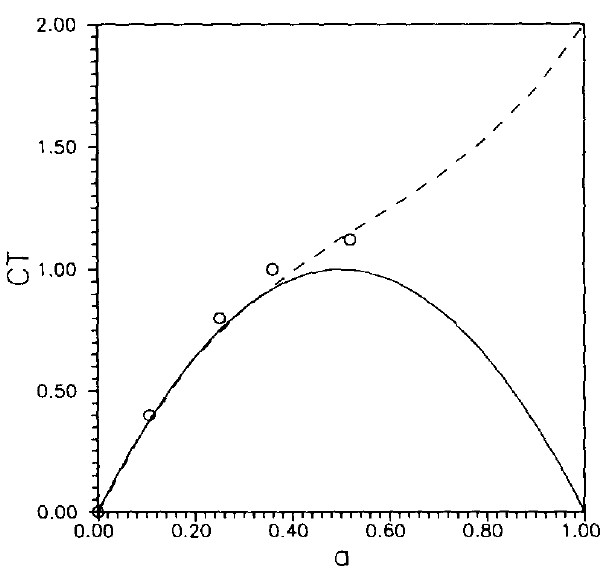
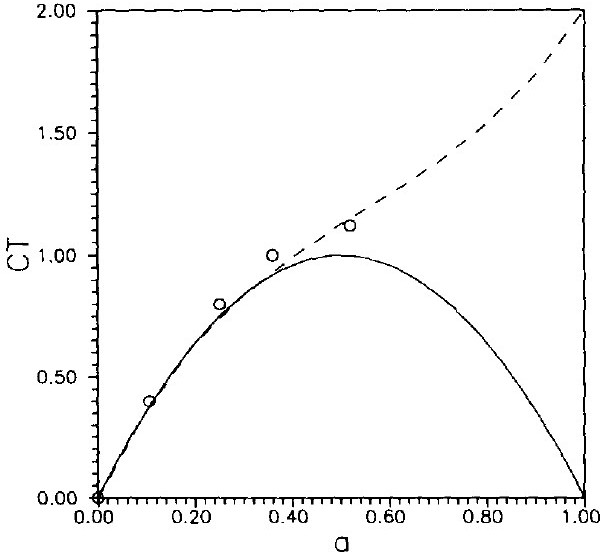
Seguimos con AL

diff --git a/3.wtActuatorFoam.tex b/3.wtActuatorFoam.tex
@@ -12,12 +12,26 @@ El concepto de Actuador Discal (AD) fue introducido por Froude~\cite{froude1889}
 
 El primer registro de un AD utilizado en un contexto de Dinámica de Fluidos Computacional (CFD, por su sigla en inglés) es el trabajo de Sørensen y Myken~\cite{sorensen1992}. En este caso se presentó un código de diferencias finitas para resolver las ecuaciones de Euler considerando axisimetría, empleando una distribución de fuerzas elíptica preestablecida en lugar de una uniforme, ya que esta última generaba, en el borde del disco, una fuente de vórtice singular a raíz de la discontinuidad de la carga, produciendo inestabilidades numéricas. Luego, en~\cite{sorensen1995}, se publica una versión modificada en la cual se reemplazan las ecuaciones de Euler por las de Navier-Stokes, incorporando un modelo de turbulencia de longitud de mezcla, aunque manteniendo la hipótesis de axisimetría. Como primera validación, el modelo se compara contra la teoría unidimensional de momento considerando un caso con carga uniforme, dando lugar a una primera versión del \texttt{AD uniform}, un actuador ya existía desde tiempos previos pero que en este contexto se utiliza por primera vez junto con CFD. La validación se muestra en la Figura \ref{fig:cap3-ctsorensen1995}, donde se oberva coincidencia para valores de inducción $a\leq\frac{1}{3}$. A continuación, se incorporan datos de perfiles alares para el cálculo de las fuerzas sobre el rotor, dando lugar al \texttt{AD airfoil}. Por otra parte, en~\cite{sorensen1998} se presenta un modelo de \textit{campo completo} (\textit{full-field}), formulado de manera tridimensional en variables vorticidad-velocidad sobre un dominio $(r,\theta,z)$, aunque los cálculos presentados en el trabajo se restringen a la hipótesis de axisimetría, y utilizando nuevamente el \texttt{AD uniform}. En esta misma época también se destacan los trabajos de Masson y otros autores~\cite{masson1997,masson2001,ammara2002}, que consideran flujo laminar y turbulento con modelos RANS, aplicando la técnica de AD \texttt{airfoil} con agregados como el efecto de la torre y el análisis de interferencia entre turbinas dispuestas en dos filas alternadas. A partir de este punto, impulsado por el desarrollo del poder de cómputo, se comienza a dejar atrás la hipótesis de axisimetría, dando paso a códigos completamente tridimensionales. 
 
+
 \begin{figure}[htpb]
     \centering
-        \includegraphics[width=0.6\textwidth]{images/wtActuatorFoam/Ct-Sorensen-1995.jpg}
-        \caption{Validación del \texttt{AD uniform} contra la teoría unidmensional de momento \citep{sorensen1995}}
+    \begin{subfigure}[b]{0.38\textwidth}
+        \centering
+        \includegraphics[height=4.5cm]{images/wtActuatorFoam/Ct-Sorensen-1995.jpg}
+        \caption{}
         \label{fig:cap3-ctsorensen1995}
+    \end{subfigure}
+    \hfill
+    \begin{subfigure}[b]{0.6\textwidth}
+        \centering
+        \includegraphics[height=4.5cm]{images/wtActuatorFoam/streamlines-Sorensen-1995}
+        \caption{}
+        \label{fig:cap3-IsoLinessorensen1995}
+    \end{subfigure}
+    \caption{Verificación del \texttt{AD uniform} contra la teoría unidmensional de momento (izquierda) y líneas de corriente aguas abajo, presentados en \cite{sorensen1995}}
+    \label{fig:cap3-sorensen1995}
 \end{figure}
+
 
 Entre los siguientes grandes hitos en la modelación de turbinas por medio de AD se puede destacar la tesis de Mikkelsen~\cite{mikkelsenThesis2003}, en la que se reformulan tanto el Actuador Discal como el Actuador Lineal en variables primitivas (presión-velocidad), resueltas mediante un solver de volúmenes finitos con interpolación de Rhie-Chow, formulación que sería adoptada en gran parte de los trabajos posteriores. Este trabajo además compara funciones de suavizado gaussianas 1D y 3D para el AD, mostrando el problema que surge al distribuir la carga más allá del borde del disco.
 
@@ -25,8 +39,41 @@ Hacia el final de la década el foco se pone en la interacción del AD con la tu
 
 Uno de los principales problemas del AD \texttt{airfoil} es la necesidad de contar con los datos de los perfiles alares que componen las aspas, los cuales casi nunca son otorgados por los fabricantes de turbinas. En 2015 van der Laan et al.~\cite{vanderlaan2015} desarrollaron un modelo que se basa en un proceso de calibración a partir del AD \texttt{airfoil}, para luego recurrir a una tabla con valores de fuerzas y velocidad de referencia en función de la velocidad promedio incidente sobre el disco. Este modelo se denomina AD \texttt{numeric} y permite estimar la distribución de fuerzas en una turbina desconocida partiendo de una conocida, como la NREL 5MW. Por otra parte, en 2019 Navarro Diaz et al.~\cite{navarrodiaz2019} propusieron un nuevo actuador también con un proceso previo de calibración, dando lugar al AD \texttt{adaptive}. El proceso de calibración se realiza con el AD \texttt{uniform} en lugar del \texttt{airfoil}, y presenta una gran capacidad de adaptarse frente a flujo no uniforme sobre el disco. En 2020 Sørensen et al.~\cite{sorensen2020} propusieron un actuador capaz de responder a flujo no uniforme sin necesidad de un proceso de calibración ni de información de los perfiles alares 2D de las aspas, mediante el cálculo analítico de la velocidad de referencia y de las fuerzas a aplicar sobre el fluido, denominado AD \texttt{analytic}. Un avance reciente dentro de estos actuadores es el trabajo de Navarro Diaz et al.~\cite{navarrodiaz2023}, en el cual se realiza una comparación profunda entre las variantes \texttt{airfoil}, \texttt{adaptive} y \texttt{analytic}, además de desarrollar los últimos 2 en versión de Actuador Lineal. Por último, en 2023 Sørensen~\cite{sorensen2023} generalizó el modelo \texttt{analytic} para velocidades por encima de la velocidad nominal, donde la hipótesis fundamental del trabajo anterior no es válida, dando lugar al llamado AD \texttt{genalytic}.
 
+\subsection{Actuador Lineal}
+
+El concepto de Actuador Lineal (AL) fue introducido por primera vez en 2002 por Sørensen y Shen~\cite{sorensen2002}, donde se ubican las fuerzas aerodinámicas correspondientes a las aspas en 3 líneas rotantes a partir de datos de perfiles alares en cada posición de las aspas, siendo esta una variante \texttt{airfoil} de dicho actuador. Las fuerzas luego se distribuyen en el dominio del fluido mediante una función Gaussiana de suavizado para evitar inestabilidades numéricas y se resuelve un modelo de Navier-Stokes tridimensional, restringido un tercio del área de barrido. Poco después, Mikkelsen~\cite{mikkelsenThesis2003} implementa el AL en variables primitivas dentro del código EllipSys3D, y observa una fuerte sensibilidad de las velocidades y fuerzas sobre la pala respecto del ancho de suavizado elegido, en particular en las zonas de raíz y punta donde la carga cambia abruptamente. En esa misma tesis se compara el AL contra el AD bajo las mismas condiciones, obteniendo resultados muy similares entre ambos.
+
+
+\begin{figure}[htpb]
+    \centering
+    \begin{subfigure}[b]{0.48\textwidth}
+        \centering
+        \includegraphics[height=5.5cm]{images/wtActuatorFoam/ALvalidation-sorensen2002.jpg}
+        \caption{}
+        \label{fig:cap3-validationsorensen2002}
+    \end{subfigure}
+    \hfill
+    \begin{subfigure}[b]{0.48\textwidth}
+        \centering
+        \includegraphics[height=5.5cm]{images/wtActuatorFoam/ALvorticity-sorensen2002}
+        \caption{}
+        \label{fig:cap3-vorticitysorensen2002}
+    \end{subfigure}
+    \caption{Validación del \texttt{AL airfoil} contra la teoría mediciones experimentales (izquierda) y contorno de vorticidad, presentados en \cite{sorensen2002}}
+    \label{fig:cap3-sorensen2002}
+\end{figure}
+
+En los años siguientes el AL se emplea para estudiar en detalle la estructura de la estela. En los trabajos de Ivanell et al.~\cite{ivanell2007,ivanell2009} analizan la formación de los vórtices de punta y base del aspa, y su posterior degradación, mediante el análisis de la caída en el valor de circulación en una simulación de tipo DNS con $Re$ reducido, mientras que en \cite{ivanell2010} se realiza un análisis de estabilidad del vórtice de punta de pala generado a través de simulaciones LES. Por otro lado, Mikkelsen et al.~\cite{mikkelsen2007} estudian la variación de potencia en una fila de turbinas mediante AL combinado con LES a Re reducido pero considerando una entrada con flujo de velocidad con un perfil similar al flujo atmosférico aunque sin considerar turbulencia debido a los requerimientos computacionales. Este período culmina con la tesis de Troldborg~\cite{troldborgThesis2008}, quien realiza un extenso estudio de sensibilidad numérica del AL, evaluando la influencia del tamaño de dominio, el paso temporal, el esquema de discretización, la resolución de malla y el ancho de suavizado, estableciendo que este último tiene un límite inferior vinculado al tamaño de celda por razones de estabilidad numérica.
+
+La distribución de fuerzas mediante una función Gaussiana resuelve el problema de la inestabilidad numérica, pero introduce a su vez un desafío propio del AL que no está presente en el AD, ya que el ancho de dicha función determina en gran medida la calidad de la solución obtenida. Distintos autores propusieron criterios para seleccionar este parámetro. Shives y Crawford~\cite{shives2012} lo vinculan a la cuerda local de la pala en lugar de al tamaño de celda, utilizando soluciones de referencia de flujo potencial. Jha et al.~\cite{jha2014} plantean pautas generales que combinan la relación entre el ancho de suavizado, el tamaño de celda y el espaciado entre puntos actuadores, proponiendo además una forma elíptica del suavizado en función de la cuerda equivalente de la pala. Martínez Tossas, Churchfield y Meneveau~\cite{martinezTossas2017} determinan de forma teórica, a partir de la solución de flujo potencial sobre perfiles de Joukowski, un ancho óptimo cercano al 20\% de la cuerda, junto con un corrimiento óptimo del centro de la fuerza respecto del punto de cuarto de cuerda. Poco después, Churchfield et al.~\cite{churchfield2017} presentan el denominado Advanced Actuator Line, que emplea una distribución Gaussiana anisotrópica cuyo ancho varía a lo largo de la envergadura, logrando una formación más realista de los vórtices de punta y raíz sin recurrir a correcciones de pérdida de punta empíricas. Martínez Tossas y Meneveau~\cite{martinezTossas2019} desarrollan por su parte la teoría de línea sustentadora filtrada, que permite corregir la velocidad inducida cuando se utiliza un ancho de suavizado mayor al óptimo, situación habitual en simulaciones LES de malla gruesa. Finalmente, Meyer Forsting et al.~\cite{meyerforsting2019,meyerforsting2020} proponen una corrección basada en un modelo de vórtices de estela cercana, que recupera la inducción perdida por el suavizado de las fuerzas, validada contra simulaciones de línea sustentadora sin y con núcleo viscoso, junto con una versión simplificada y de menor costo computacional publicada al año siguiente.
+
+En paralelo, un conjunto de trabajos se enfoca en validar el AL frente a datos experimentales utilizando resoluciones más gruesas que las recomendadas habitualmente, con el objetivo de reducir el costo computacional en simulaciones de parques eólicos completos. Draper y Usera~\cite{draper2015} evalúan el desempeño del AL con resolución gruesa contra las campañas de túnel de viento conocidas como Blind Test. Draper, Guggeri y Usera~\cite{draper2016} extienden esta validación a condiciones de entrada con perfil de velocidad y turbulencia representativos de la capa límite atmosférica, y también contra datos de potencia del parque eólico Horns Rev. Guggeri, Draper y Usera~\cite{guggeri2017} aplican finalmente la técnica a un parque eólico real de 7.7 MW en Uruguay.
+
+Un desarrollo reciente que vincula al AL con los avances descritos previamente para el AD es el trabajo de Navarro Diaz et al.~\cite{navarrodiaz2023}, quienes establecen una analogía entre el AD y el AL para calcular localmente las fuerzas sobre la línea sin necesidad de conocer la geometría de la pala ni datos de perfil alar. De esta forma extienden al AL tanto el modelo \texttt{analytic}~\cite{sorensen2020} como el modelo \texttt{adaptive}~\cite{navarrodiaz2019}, sumándose estas dos nuevas variantes al AL \texttt{airfoil} ya existente basado en teoría de elemento de pala. Los tres enfoques se comparan entre sí para un caso de interferencia parcial de estela entre dos turbinas, considerando tanto flujo laminar uniforme como flujo turbulento representativo de la capa límite atmosférica.
 
 \section{Parámetros generales de funcionamiento}
+
+VAMOS A DEFINIR LOS PARAMETROS MAS IMPORTANTES EN LA INTRODUCCION (DISTRIBUCION DE FUERZAS GAUSSIANA, FACTOR DE PUNTA DE PALA, FACTOR DE ROOT). EL RESTO LO DEFINIMOS ACA. EL ESTADO DEL ARTE LO HACEMOS DIRECTAMENTE ACA, MIENTRAS DEFINIMOS Y CONTAMOS QUE HAY EN LA BIBLIOTECA. 
 
 \begin{itemize}
 	\item Mallado local del actuador

diff --git a/2.marco_teorico.tex b/2.marco_teorico.tex
@@ -79,9 +79,17 @@ El modelo de actuador discal fue propuesto originalmente por Rankine \citep{rank
 Acá hacemos una descripción de los modelos existentes, full rotor, actuador sectorial, actuador de superficie
 etc. Luego vamos de lleno con los que nos interesan. 
 
-\subsection{Modelo de Actuador Discal}
+AD
 
-\subsection{Modelo de Actuador Lineal}
+AL
+
+Tip factor
+
+Root Factor
+
+gaussiana
+
+
 
 \section{Técnicas de Análisis de Resultados}
 
